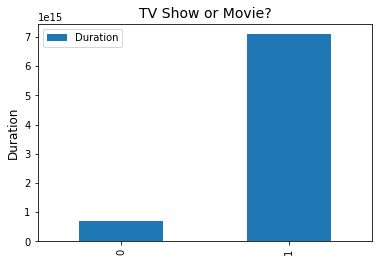
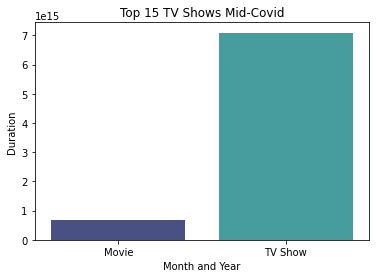
Updating Graphs

diff --git a/Netflix_Personal.py b/Netflix_Personal.py
@@ -207,13 +207,18 @@ print(views_per_day)
 #6      Sun 12 days 11:33:42
 
 
-plt.figure(figsize = (12, 8))
-views_per_day.plot(kind = 'bar')
-plt.xticks(rotation = 90)
-plt.title('Time spent on Netflix for each Weekday', fontsize = 14)
-plt.ylabel('Duration', fontsize = 12)
-plt.xlabel('Weekdays', fontsize = 12)
-plt.show()
+views_per_day_df = pd.DataFrame(views_per_day)
+views_per_day_df.reset_index()
+views_per_day_df.rename(columns = {'index':'weekdays', 'Duration':'Duration'}, inplace = True)
+views_per_day_df
+
+#Creating a graph for Month and Year
+views_per_day_df_graph = sns.barplot(x = "weekdays", y = "Duration", data = views_per_day_df,
+                 palette = 'magma')
+views_per_day_df_graph.set_title('Time spent on Netflix for each Weekday')
+views_per_day_df_graph.set_ylabel('Duration')
+views_per_day_df_graph.set_xlabel('Month and Year')
+views_per_day_df_graph.set_xticklabels(views_per_day_df_graph.get_xticklabels())
 
 
 # =============================================================================
@@ -223,18 +228,24 @@ plt.show()
 # create the table
 views_per_hour = Karina.groupby(
         ['hour']
-        )['Duration'].count().reset_index()
+        )['Duration'].sum().reset_index()
 
 # generating the table
 print(views_per_hour)
 
-plt.figure(figsize = (12, 8))
-views_per_hour.plot(kind = 'bar')
-plt.xticks(rotation = 90)
-plt.title('The amount of hours spend on each hour', fontsize = 14)
-plt.ylabel('Duration', fontsize = 12)
-plt.xlabel('Weekdays', fontsize = 12)
-plt.show()
+views_per_hour_df = pd.DataFrame(views_per_hour)
+views_per_hour_df.reset_index()
+views_per_hour_df.rename(columns = {'index':'hour', 'Duration':'Duration'}, inplace = True)
+views_per_hour_df
+
+#Creating a graph for Month and Year
+views_per_hour_df_graph = sns.barplot(x = "hour", y = "Duration", data = views_per_hour_df,
+                 palette = 'magma')
+views_per_hour_df_graph.set_title('Top 15 TV Shows Mid-Covid')
+views_per_hour_df_graph.set_ylabel('Duration')
+views_per_hour_df_graph.set_xlabel('Month and Year')
+views_per_hour_df_graph.set_xticklabels(views_per_hour_df_graph.get_xticklabels(), rotation = 90)
+
 
 # =============================================================================
 # Analyse Date -> Year
@@ -258,9 +269,9 @@ Karina_Year_df
 #Creating a graph for TV Shows
 Karina_Year_df_graph = sns.barplot(x = "year", y = "Duration", data = Karina_Year_df,
                  palette = 'Blues_d')
-Karina_Year_df_graph.set_title('Top 15 TV Shows Mid-Covid')
+Karina_Year_df_graph.set_title('Which year did I watch the most Netflix?')
 Karina_Year_df_graph.set_ylabel('Duration')
-Karina_Year_df_graph.set_xlabel('TV Shows')
+Karina_Year_df_graph.set_xlabel('Year')
 Karina_Year_df_graph.set_xticklabels(Karina_Year_df_graph.get_xticklabels(), rotation = 90)
 
 # =============================================================================
@@ -282,9 +293,9 @@ Karina_Month_df
 #Creating a graph for TV Shows
 Karina_Month_df_graph = sns.barplot(x = "month", y = "Duration", data = Karina_Month_df,
                  palette = 'Blues_d')
-Karina_Month_df_graph.set_title('Top 15 TV Shows Mid-Covid')
+Karina_Month_df_graph.set_title('Which month did I watch the most Netflix?')
 Karina_Month_df_graph.set_ylabel('Duration')
-Karina_Month_df_graph.set_xlabel('TV Shows')
+Karina_Month_df_graph.set_xlabel('Month')
 Karina_Month_df_graph.set_xticklabels(Karina_Month_df_graph.get_xticklabels(), rotation = 90)
 
 
@@ -308,7 +319,7 @@ Karina_Month_Year_df
 #Creating a graph for Month and Year
 Karina_Month_Year_df_graph = sns.barplot(x = "month_year", y = "Duration", data = Karina_Month_Year_df,
                  palette = 'Greens_d')
-Karina_Month_Year_df_graph.set_title('Top 15 TV Shows Mid-Covid')
+Karina_Month_Year_df_graph.set_title('When did I watch most Netflix?')
 Karina_Month_Year_df_graph.set_ylabel('Duration')
 Karina_Month_Year_df_graph.set_xlabel('Month and Year')
 Karina_Month_Year_df_graph.set_xticklabels(Karina_Month_Year_df_graph.get_xticklabels(), rotation = 90)
@@ -333,18 +344,18 @@ print(views_by_Type)
 
 #Creating a dataframe for TV Shows
 views_by_Type_df = pd.DataFrame(views_by_Type)
-views_by_Type_df.reset_index(inplace = True)
+views_by_Type_df.reset_index()
 views_by_Type_df.rename(columns = {'index':'Type', 'Duration':'Duration'}, inplace = True)
 views_by_Type_df
 
 #Creating a 
-#views_by_Type_df_graph = sns.barplot(x = "Type", y = "Duration", data = views_by_Type_df,
-#                 palette = 'Greens_d')
-#views_by_Type_df_graph.set_title('Top 15 TV Shows Mid-Covid')
-#views_by_Type_df_graph.set_ylabel('Duration')
-#views_by_Type_df_graph.set_xlabel('Month and Year')
-#views_by_Type_df_graph.set_xticklabels(views_by_Type_df_graph.get_xticklabels(), rotation = 90)
-#
+views_by_Type_df_graph = sns.barplot(x = "Type", y = "Duration", data = views_by_Type_df,
+                 palette = 'mako')
+views_by_Type_df_graph.set_title('Top 15 TV Shows Mid-Covid')
+views_by_Type_df_graph.set_ylabel('Duration')
+views_by_Type_df_graph.set_xlabel('Month and Year')
+views_by_Type_df_graph.set_xticklabels(views_by_Type_df_graph.get_xticklabels())
+
 
 
 # =============================================================================
